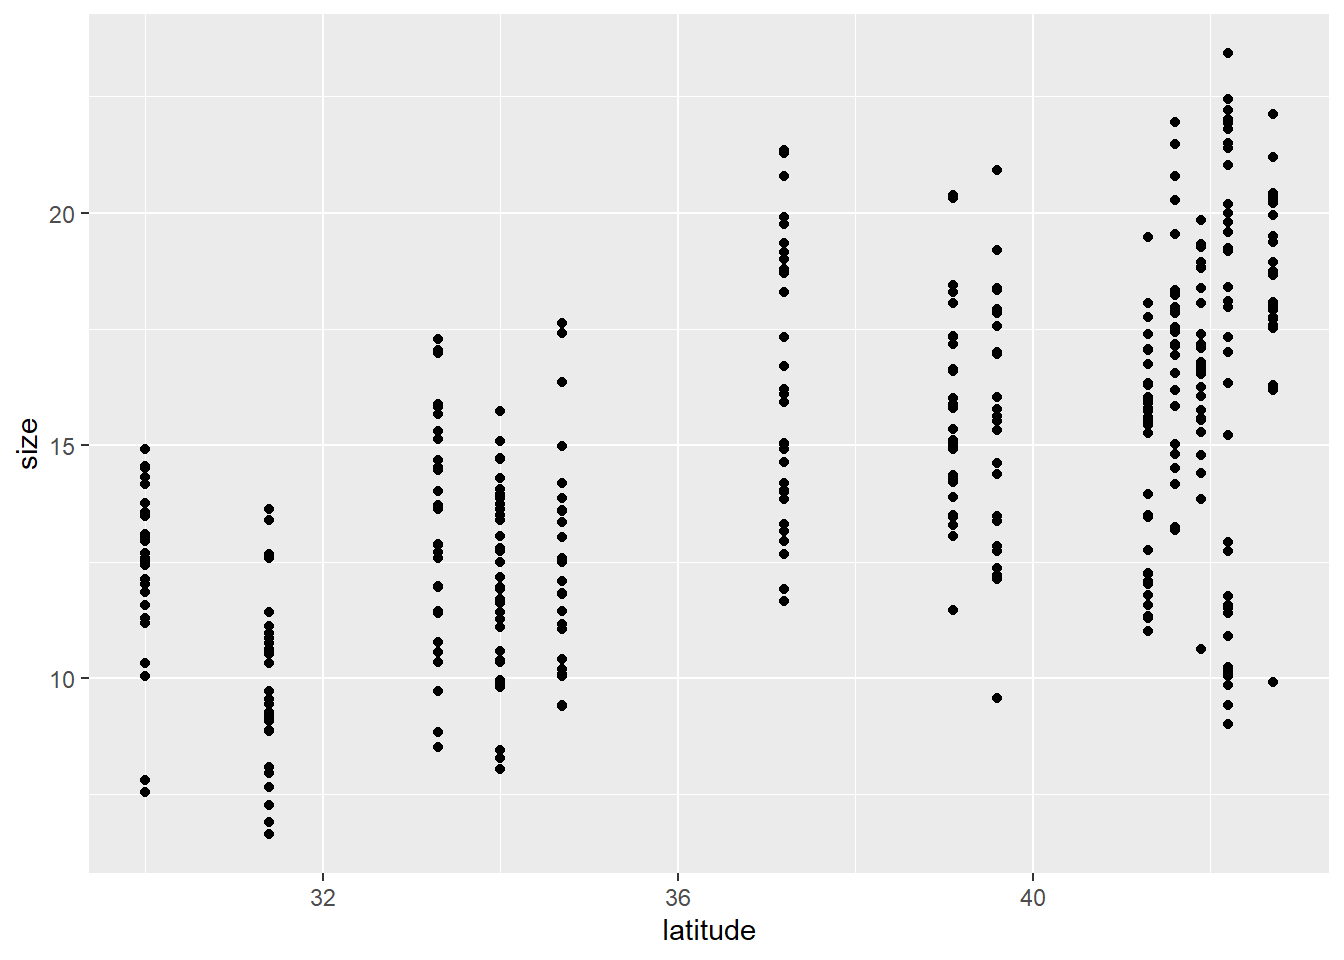
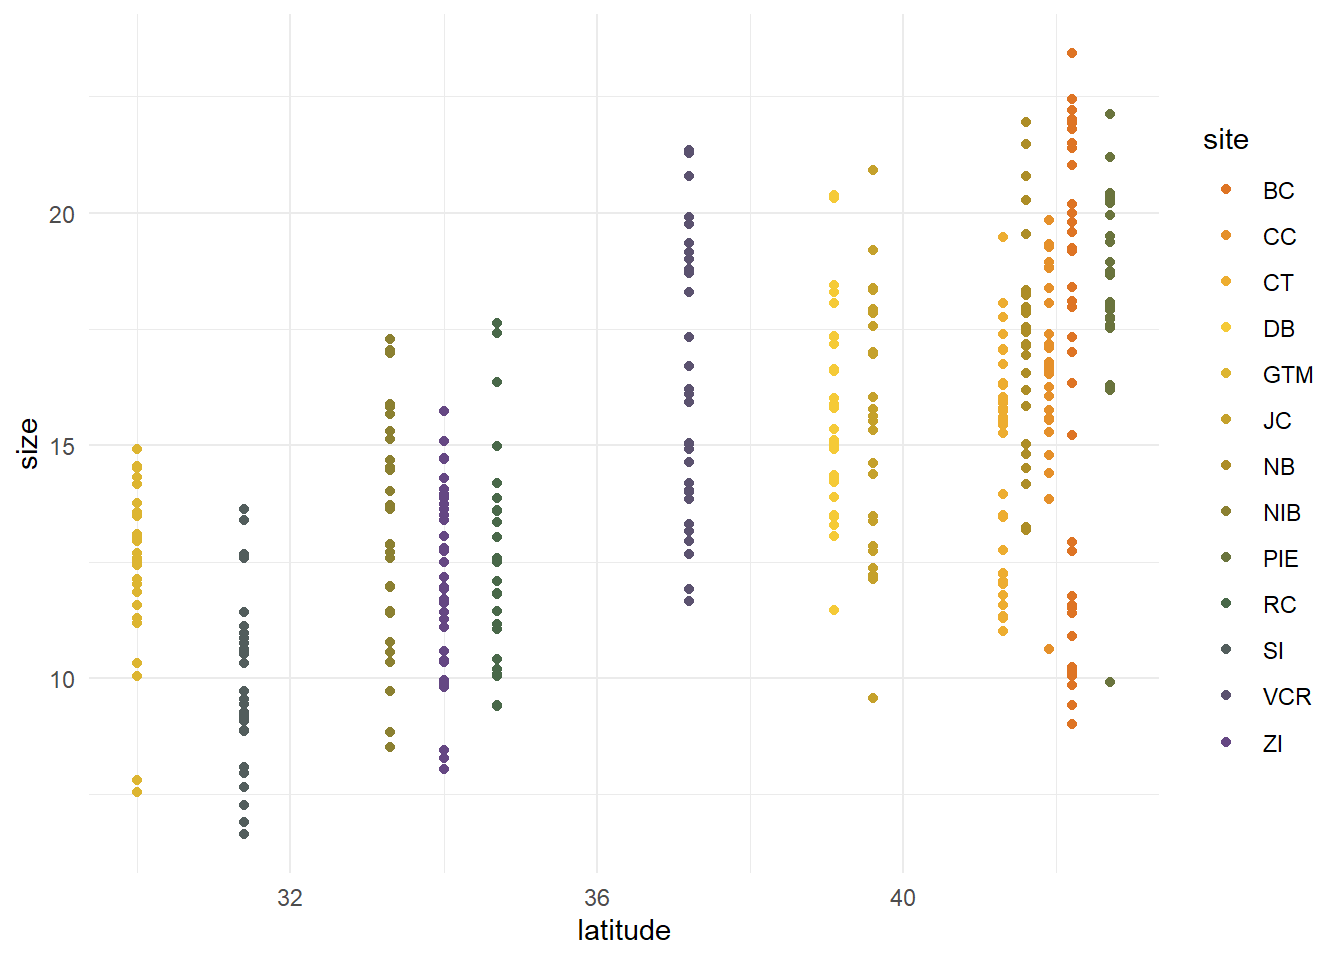
modifying visualization to use custom colors

diff --git a/test quarto.html b/test quarto.html
@@ -111,14 +111,22 @@ pre > code.sourceCode > span > a:first-child::before { text-decoration: underlin
 <div class="cell">
 <div class="code-copy-outer-scaffold"><div class="sourceCode cell-code" id="cb1"><pre class="sourceCode r code-with-copy"><code class="sourceCode r"><span id="cb1-1"><a href="#cb1-1" aria-hidden="true" tabindex="-1"></a><span class="fu">library</span>(tidyverse) <span class="co"># gen use for cleaning wrangling</span></span>
 <span id="cb1-2"><a href="#cb1-2" aria-hidden="true" tabindex="-1"></a><span class="fu">library</span>(lterdatasampler) <span class="co"># package with ltr</span></span>
-<span id="cb1-3"><a href="#cb1-3" aria-hidden="true" tabindex="-1"></a></span>
-<span id="cb1-4"><a href="#cb1-4" aria-hidden="true" tabindex="-1"></a><span class="fu">data</span>(pie_crab) <span class="co"># extracting pie crab</span></span></code></pre></div><button title="Copy to Clipboard" class="code-copy-button"><i class="bi"></i></button></div>
+<span id="cb1-3"><a href="#cb1-3" aria-hidden="true" tabindex="-1"></a><span class="fu">library</span>(devtools) <span class="co"># load devtols</span></span>
+<span id="cb1-4"><a href="#cb1-4" aria-hidden="true" tabindex="-1"></a>devtools<span class="sc">::</span><span class="fu">install_github</span>(<span class="st">"an-bui/calecopal"</span>) <span class="co"># install calecopal themes</span></span>
+<span id="cb1-5"><a href="#cb1-5" aria-hidden="true" tabindex="-1"></a><span class="fu">data</span>(pie_crab) <span class="co"># extracting pie crab</span></span></code></pre></div><button title="Copy to Clipboard" class="code-copy-button"><i class="bi"></i></button></div>
 </div>
 <div class="cell">
 <div class="code-copy-outer-scaffold"><div class="sourceCode cell-code" id="cb2"><pre class="sourceCode r code-with-copy"><code class="sourceCode r"><span id="cb2-1"><a href="#cb2-1" aria-hidden="true" tabindex="-1"></a><span class="fu">ggplot</span>(<span class="at">data =</span> pie_crab,<span class="co"># dataset to plot</span></span>
 <span id="cb2-2"><a href="#cb2-2" aria-hidden="true" tabindex="-1"></a>       <span class="fu">aes</span>(<span class="at">x =</span> latitude,<span class="co"># x axis is latitude y axis is crab size</span></span>
-<span id="cb2-3"><a href="#cb2-3" aria-hidden="true" tabindex="-1"></a>           <span class="at">y =</span> size)) <span class="sc">+</span></span>
-<span id="cb2-4"><a href="#cb2-4" aria-hidden="true" tabindex="-1"></a>  <span class="fu">geom_point</span>() <span class="co"># creating a scatterplot</span></span></code></pre></div><button title="Copy to Clipboard" class="code-copy-button"><i class="bi"></i></button></div>
+<span id="cb2-3"><a href="#cb2-3" aria-hidden="true" tabindex="-1"></a>           <span class="at">y =</span> size,</span>
+<span id="cb2-4"><a href="#cb2-4" aria-hidden="true" tabindex="-1"></a>           <span class="at">color =</span> site)) <span class="sc">+</span> <span class="co"># color points by site</span></span>
+<span id="cb2-5"><a href="#cb2-5" aria-hidden="true" tabindex="-1"></a>  <span class="fu">geom_point</span>() <span class="sc">+</span> <span class="co"># creating scatterplot</span></span>
+<span id="cb2-6"><a href="#cb2-6" aria-hidden="true" tabindex="-1"></a>  <span class="fu">theme_minimal</span>() <span class="sc">+</span> <span class="co"># using a different theme</span></span>
+<span id="cb2-7"><a href="#cb2-7" aria-hidden="true" tabindex="-1"></a>  <span class="fu">scale_color_manual</span>( <span class="co"># coloring sites with custom colors</span></span>
+<span id="cb2-8"><a href="#cb2-8" aria-hidden="true" tabindex="-1"></a>    <span class="at">values =</span> calecopal<span class="sc">::</span><span class="fu">cal_palette</span>(<span class="st">"superbloom2"</span>,</span>
+<span id="cb2-9"><a href="#cb2-9" aria-hidden="true" tabindex="-1"></a>                                    <span class="at">n =</span> <span class="dv">13</span>,</span>
+<span id="cb2-10"><a href="#cb2-10" aria-hidden="true" tabindex="-1"></a>                                    <span class="at">type =</span> <span class="st">"continuous"</span>)</span>
+<span id="cb2-11"><a href="#cb2-11" aria-hidden="true" tabindex="-1"></a>  )</span></code></pre></div><button title="Copy to Clipboard" class="code-copy-button"><i class="bi"></i></button></div>
 <div class="cell-output-display">
 <div>
 <figure class="figure">
